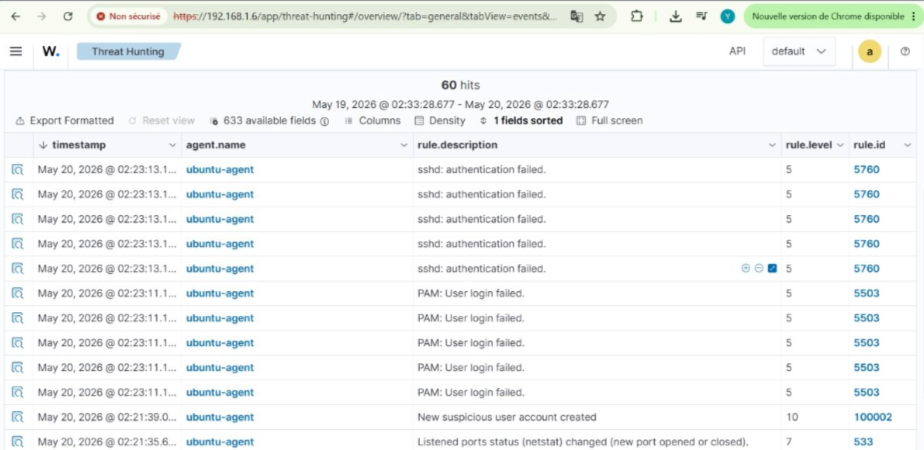
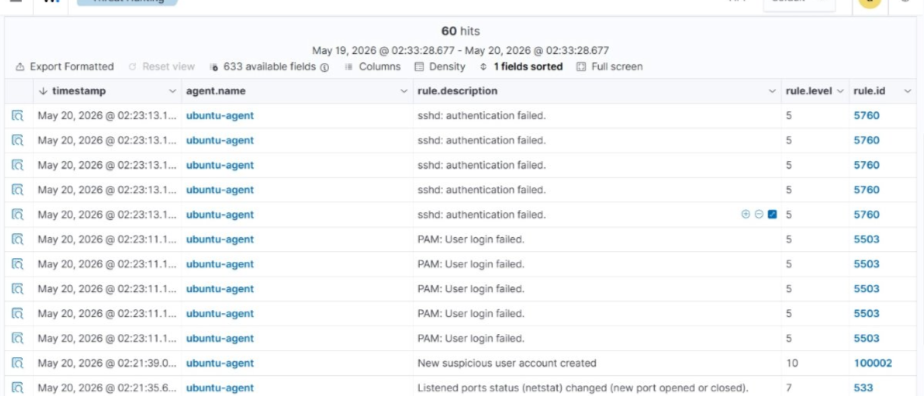
Wazuh : alertes visibles sur la carte, retire SOC / Blue Team du site
1. Affichage des captures Wazuh
   - L'alerte Wazuh (regle 100002) est desormais visible directement
     sur la carte du projet, en reutilisant exactement le composant de
     CAS N1 (.card-media.card-media--screenshot) : meme taille, meme
     position, meme presentation.
   - Nmap et Hydra restent uniquement dans le detail ("Lire le cas en
     detail"), comme avant.
   - Recadre l'image existante (924x450 -> 924x396, ratio 7:3, la
     meme regle CSS deja utilisee par CAS N1) pour que la ligne de la
     regle personnalisee 100002 reste visible dans la vignette, au
     lieu d'etre coupee par le cadrage object-fit:cover. Meme fichier,
     pas de doublon.
   - Retire la figure dupliquee qui montrait la meme image dans le
     detail, pour eviter la redite.

2. Retire "SOC / Blue Team" du portfolio
   Supprime la mention et les formulations de specialisation dans le
   titre, la meta description, le role sous le nom, le paragraphe de
   recherche de stage, la fiche synthese ("Spécialisation" ->
   "Domaine : Cybersécurité"), le poste recherche en Contact, l'onglet
   de filtre et les badges des 2 projets concernes (renommes
   "Détection & SIEM", terme deja utilise ailleurs sur le site pour ce
   meme groupe de competences), ainsi que la fin du texte de
   philosophie et le sous-titre de la section Competences. Repositionne
   le profil comme polyvalent en cybersecurite, en FR et en EN.
   Les noms de projets (ex. "Lab SOC Elastic Security"), les
[…]

diff --git a/index.html b/index.html
@@ -3,9 +3,9 @@
 <head>
 <meta charset="utf-8">
 <meta name="viewport" content="width=device-width, initial-scale=1">
-<title>Ryad Boujenan — Élève ingénieur cybersécurité · SOC / Blue Team</title>
+<title>Ryad Boujenan — Élève ingénieur cybersécurité</title>
 <meta name="theme-color" content="#060b14">
-<meta name="description" content="Ryad Boujenan, élève ingénieur en cybersécurité à l’EMSI Casablanca. SOC / Blue Team : détection, triage d’alertes et investigation sur SIEM. Recherche un stage de fin d’études de 4 à 6 mois à partir de février 2027, en priorité en Suisse.">
+<meta name="description" content="Ryad Boujenan, élève ingénieur en cybersécurité à l’EMSI Casablanca. Détection, sécurité cloud et gestion des risques. Recherche un stage de fin d’études de 4 à 6 mois à partir de février 2027, en priorité en Suisse.">
 <link rel="preconnect" href="https://fonts.googleapis.com">
 <link rel="preconnect" href="https://fonts.gstatic.com" crossorigin>
 <link rel="stylesheet" href="https://fonts.googleapis.com/css2?family=IBM+Plex+Mono:wght@400;500&family=IBM+Plex+Sans+Condensed:wght@500;600&family=IBM+Plex+Sans:wght@400;500;600&display=swap">
@@ -90,12 +90,12 @@
           <p class="status-pill"><span class="dot" aria-hidden="true"></span>En recherche — stage PFE · février 2027</p>
 
           <h1>Ryad Boujenan</h1>
-          <p class="hero-role">Élève ingénieur en cybersécurité — SOC / Blue&nbsp;Team</p>
+          <p class="hero-role">Élève ingénieur en cybersécurité</p>
 
           <p class="lede">
             Je termine un cycle d'ingénieur en <strong>informatique et réseaux, option
             cybersécurité</strong>, à l'EMSI Casablanca. Je recherche un <strong>stage de fin d'études
-            en cybersécurité, orienté SOC / Blue Team, de 4 à 6 mois à partir de février 2027</strong>,
+            en cybersécurité, de 4 à 6 mois à partir de février 2027</strong>,
             en priorité en Suisse, mais également ouvert aux opportunités en France.
           </p>
 
@@ -120,7 +120,7 @@
           <div class="stats">
             <p class="stats-title" id="stats-title">Fiche synthèse</p>
             <dl>
-              <div class="stats-row"><dt>Spécialisation</dt><dd class="txt">SOC / Blue Team</dd></div>
+              <div class="stats-row"><dt>Domaine</dt><dd class="txt">Cybersécurité</dd></div>
               <div class="stats-row"><dt>Disponibilité</dt><dd class="txt live">PFE · février 2027</dd></div>
               <div class="stats-row"><dt>Projets</dt><dd>03</dd></div>
               <div class="stats-row"><dt>Formations &amp; certifications</dt><dd>06</dd></div>
@@ -143,7 +143,7 @@
       <!-- Masquee sans JavaScript : toutes les cartes restent alors visibles. -->
       <div class="filters" id="filters" role="group" aria-label="Filtrer les projets par catégorie" hidden>
         <button class="filter" type="button" data-filter="all" data-label="Tous" aria-pressed="true"><svg class="i" aria-hidden="true"><use href="#i-grid"/></svg>Tous<span class="count"></span></button>
-        <button class="filter" type="button" data-filter="soc" data-label="SOC / Blue Team" aria-pressed="false"><svg class="i" aria-hidden="true"><use href="#i-shield"/></svg>SOC / Blue Team<span class="count"></span></button>
+        <button class="filter" type="button" data-filter="soc" data-label="Détection &amp; SIEM" aria-pressed="false"><svg class="i" aria-hidden="true"><use href="#i-shield"/></svg>Détection &amp; SIEM<span class="count"></span></button>
         <button class="filter" type="button" data-filter="redteam" data-label="Red Team / Pentest" aria-pressed="false"><svg class="i" aria-hidden="true"><use href="#i-target"/></svg>Red Team / Pentest<span class="count"></span></button>
         <button class="filter" type="button" data-filter="cloud" data-label="Cloud" aria-pressed="false"><svg class="i" aria-hidden="true"><use href="#i-cloud"/></svg>Cloud<span class="count"></span></button>
         <button class="filter" type="button" data-filter="ia" data-label="IA" aria-pressed="false"><svg class="i" aria-hidden="true"><use href="#i-chip"/></svg>IA<span class="count"></span></button>
@@ -160,7 +160,7 @@
             <figcaption>Les 4 règles de détection du lab, dans Kibana</figcaption>
           </figure>
           <div class="card-badges">
-            <span class="badge badge-cat"><svg class="i" aria-hidden="true"><use href="#i-shield"/></svg>SOC / Blue Team</span>
+            <span class="badge badge-cat"><svg class="i" aria-hidden="true"><use href="#i-shield"/></svg>Détection &amp; SIEM</span>
             <span class="badge">2026 · Projet personnel</span>
           </div>
           <h3 id="p-elastic"><span class="case-no">CAS Nº1</span>Lab SOC Elastic Security</h3>
@@ -270,8 +270,12 @@
           </figure>
         ===== -->
         <article class="card panel" data-cat="soc" aria-labelledby="p-wazuh">
+          <figure class="card-media card-media--screenshot">
+            <img src="assets/projets/wazuh-detection-alerts-rules.png" alt="Tableau de bord Wazuh Threat Hunting : alertes d'echec d'authentification SSH et PAM, et regle personnalisee 100002 niveau 10 sur la creation d'un compte suspect" width="924" height="396" loading="lazy" decoding="async">
+            <figcaption>Alertes Wazuh : échecs d'authentification SSH/PAM, et règle personnalisée 100002 (niveau 10)</figcaption>
+          </figure>
           <div class="card-badges">
-            <span class="badge badge-cat"><svg class="i" aria-hidden="true"><use href="#i-shield"/></svg>SOC / Blue Team</span>
+            <span class="badge badge-cat"><svg class="i" aria-hidden="true"><use href="#i-shield"/></svg>Détection &amp; SIEM</span>
             <span class="badge">05/2026 · Projet académique</span>
           </div>
           <h3 id="p-wazuh"><span class="case-no">CAS Nº2</span>Lab Wazuh (SIEM) multi-VM</h3>
@@ -342,14 +346,8 @@
                       <p>
                         Les échecs d'authentification SSH et PAM remontent dans le tableau de bord, aux
                         côtés de la règle personnalisée <code>100002</code> qui qualifie la création d'un
-                        compte utilisateur suspect.
+                        compte utilisateur suspect — visible directement sur la carte du projet.
                       </p>
-                      <figure class="detail-fig">
-                        <a href="assets/projets/wazuh-detection-alerts-rules.png" target="_blank" rel="noopener" title="Ouvrir l'image en grand">
-                          <img src="assets/projets/wazuh-detection-alerts-rules.png" alt="Tableau de bord Wazuh Threat Hunting : alertes d'echec d'authentification SSH et PAM, et regle personnalisee 100002 niveau 10 sur la creation d'un compte suspect" width="924" height="450" loading="lazy" decoding="async">
-                        </a>
-                        <figcaption>Alertes Wazuh : échecs d'authentification SSH/PAM, et règle personnalisée 100002 (niveau 10)</figcaption>
-                      </figure>
                     </li>
                   </ul>
                 </div>
@@ -453,8 +451,8 @@
         <p class="eyebrow"><svg class="i" aria-hidden="true"><use href="#i-layers"/></svg>02 · Compétences</p>
         <h2>Outils et domaines</h2>
         <p class="section-sub">
-          Je me spécialise en sécurité défensive : détection, triage d'alertes et investigation sur
-          SIEM.
+          Des fondamentaux réseau jusqu'à la détection, en passant par l'offensif et le cloud : les
+          domaines sur lesquels je me forme.
         </p>
       </div>
 
@@ -540,8 +538,7 @@
         </p>
         <p>
           C'est cette approche transversale que je souhaite approfondir : comprendre les systèmes,
-          anticiper les risques et contribuer à leur sécurisation, avec un intérêt particulier pour le
-          SOC et la cybersécurité défensive.
+          anticiper les risques et contribuer à leur sécurisation.
         </p>
       </div>
     </div>
@@ -1001,7 +998,7 @@
           <div class="availability">
             <h4>Recherche en cours</h4>
             <dl>
-              <dt>Poste</dt><dd>Stage de fin d'études (PFE) — analyste SOC</dd>
+              <dt>Poste</dt><dd>Stage de fin d'études (PFE) — cybersécurité</dd>
               <dt>Durée</dt><dd>4 à 6 mois</dd>
               <dt>Début</dt><dd>À partir de février 2027</dd>
               <dt>Lieu</dt><dd>Suisse en priorité, France également</dd>

diff --git a/en/index.html b/en/index.html
@@ -3,9 +3,9 @@
 <head>
 <meta charset="utf-8">
 <meta name="viewport" content="width=device-width, initial-scale=1">
-<title>Ryad Boujenan — Cybersecurity engineering student · SOC / Blue Team</title>
+<title>Ryad Boujenan — Cybersecurity engineering student</title>
 <meta name="theme-color" content="#060b14">
-<meta name="description" content="Ryad Boujenan, final-year cybersecurity engineering student at EMSI Casablanca. SOC / Blue Team: detection, alert triage and SIEM investigation. Looking for a 4-to-6-month final-year internship from February 2027, primarily in Switzerland.">
+<meta name="description" content="Ryad Boujenan, final-year cybersecurity engineering student at EMSI Casablanca. Detection, cloud security and risk management. Looking for a 4-to-6-month final-year internship from February 2027, primarily in Switzerland.">
 <link rel="preconnect" href="https://fonts.googleapis.com">
 <link rel="preconnect" href="https://fonts.gstatic.com" crossorigin>
 <link rel="stylesheet" href="https://fonts.googleapis.com/css2?family=IBM+Plex+Mono:wght@400;500&family=IBM+Plex+Sans+Condensed:wght@500;600&family=IBM+Plex+Sans:wght@400;500;600&display=swap">
@@ -90,12 +90,12 @@
           <p class="status-pill"><span class="dot" aria-hidden="true"></span>Available — final-year internship · February 2027</p>
 
           <h1>Ryad Boujenan</h1>
-          <p class="hero-role">Cybersecurity engineering student — SOC / Blue&nbsp;Team</p>
+          <p class="hero-role">Cybersecurity engineering student</p>
 
           <p class="lede">
             I am completing an engineering degree in <strong>computer engineering and networks,
             cybersecurity major</strong>, at EMSI Casablanca. I am looking for a <strong>final-year
-            cybersecurity internship focused on SOC / Blue Team, 4 to 6 months from February 2027</strong>,
+            cybersecurity internship, 4 to 6 months from February 2027</strong>,
             primarily in Switzerland, and equally open to opportunities in France.
           </p>
 
@@ -120,7 +120,7 @@
           <div class="stats">
             <p class="stats-title" id="stats-title">At a glance</p>
             <dl>
-              <div class="stats-row"><dt>Specialisation</dt><dd class="txt">SOC / Blue Team</dd></div>
+              <div class="stats-row"><dt>Field</dt><dd class="txt">Cybersecurity</dd></div>
               <div class="stats-row"><dt>Availability</dt><dd class="txt live">Internship · Feb 2027</dd></div>
               <div class="stats-row"><dt>Projects</dt><dd>03</dd></div>
               <div class="stats-row"><dt>Training &amp; certifications</dt><dd>06</dd></div>
@@ -143,7 +143,7 @@
       <!-- Masquee sans JavaScript : toutes les cartes restent alors visibles. -->
       <div class="filters" id="filters" role="group" aria-label="Filter projects by category" hidden>
         <button class="filter" type="button" data-filter="all" data-label="All" aria-pressed="true"><svg class="i" aria-hidden="true"><use href="#i-grid"/></svg>All<span class="count"></span></button>
-        <button class="filter" type="button" data-filter="soc" data-label="SOC / Blue Team" aria-pressed="false"><svg class="i" aria-hidden="true"><use href="#i-shield"/></svg>SOC / Blue Team<span class="count"></span></button>
+        <button class="filter" type="button" data-filter="soc" data-label="Detection &amp; SIEM" aria-pressed="false"><svg class="i" aria-hidden="true"><use href="#i-shield"/></svg>Detection &amp; SIEM<span class="count"></span></button>
         <button class="filter" type="button" data-filter="redteam" data-label="Red Team / Pentest" aria-pressed="false"><svg class="i" aria-hidden="true"><use href="#i-target"/></svg>Red Team / Pentest<span class="count"></span></button>
         <button class="filter" type="button" data-filter="cloud" data-label="Cloud" aria-pressed="false"><svg class="i" aria-hidden="true"><use href="#i-cloud"/></svg>Cloud<span class="count"></span></button>
         <button class="filter" type="button" data-filter="ia" data-label="AI" aria-pressed="false"><svg class="i" aria-hidden="true"><use href="#i-chip"/></svg>AI<span class="count"></span></button>
@@ -160,7 +160,7 @@
             <figcaption>The lab's 4 detection rules, in Kibana</figcaption>
           </figure>
           <div class="card-badges">
-            <span class="badge badge-cat"><svg class="i" aria-hidden="true"><use href="#i-shield"/></svg>SOC / Blue Team</span>
+            <span class="badge badge-cat"><svg class="i" aria-hidden="true"><use href="#i-shield"/></svg>Detection &amp; SIEM</span>
             <span class="badge">2026 · Personal project</span>
           </div>
           <h3 id="p-elastic"><span class="case-no">CAS Nº1</span>Lab SOC Elastic Security</h3>
@@ -269,8 +269,12 @@
           </figure>
         ===== -->
         <article class="card panel" data-cat="soc" aria-labelledby="p-wazuh">
+          <figure class="card-media card-media--screenshot">
+            <img src="../assets/projets/wazuh-detection-alerts-rules.png" alt="Wazuh Threat Hunting dashboard: SSH and PAM authentication-failure alerts, and custom rule 100002 level 10 for a suspicious account creation" width="924" height="396" loading="lazy" decoding="async">
+            <figcaption>Wazuh alerts: SSH/PAM authentication failures, and custom rule 100002 (level 10)</figcaption>
+          </figure>
           <div class="card-badges">
-            <span class="badge badge-cat"><svg class="i" aria-hidden="true"><use href="#i-shield"/></svg>SOC / Blue Team</span>
+            <span class="badge badge-cat"><svg class="i" aria-hidden="true"><use href="#i-shield"/></svg>Detection &amp; SIEM</span>
             <span class="badge">05/2026 · Academic project</span>
           </div>
           <h3 id="p-wazuh"><span class="case-no">CAS Nº2</span>Lab Wazuh (SIEM) multi-VM</h3>
@@ -341,14 +345,8 @@
                       <p>
                         The SSH and PAM authentication failures surface on the dashboard, alongside the
                         custom rule <code>100002</code> that flags the creation of a suspicious user
-                        account.
+                        account — visible directly on the project card.
                       </p>
-                      <figure class="detail-fig">
-                        <a href="../assets/projets/wazuh-detection-alerts-rules.png" target="_blank" rel="noopener" title="Open image full size">
-                          <img src="../assets/projets/wazuh-detection-alerts-rules.png" alt="Wazuh Threat Hunting dashboard: SSH and PAM authentication-failure alerts, and custom rule 100002 level 10 for a suspicious account creation" width="924" height="450" loading="lazy" decoding="async">
-                        </a>
-                        <figcaption>Wazuh alerts: SSH/PAM authentication failures, and custom rule 100002 (level 10)</figcaption>
-                      </figure>
                     </li>
                   </ul>
                 </div>
@@ -452,7 +450,8 @@
         <p class="eyebrow"><svg class="i" aria-hidden="true"><use href="#i-layers"/></svg>02 · Skills</p>
         <h2>Tools and areas</h2>
         <p class="section-sub">
-          I specialise in defensive security: detection, alert triage and SIEM investigation.
+          From network fundamentals to detection, by way of offensive security and cloud: the areas
+          I'm building skills in.
         </p>
       </div>
 
@@ -537,8 +536,7 @@
         </p>
         <p>
           That's the cross-cutting approach I want to keep building on: understanding systems,
-          anticipating risks, and helping secure them, with a particular interest in the SOC and
-          defensive security.
+          anticipating risks, and helping secure them.
         </p>
       </div>
     </div>
@@ -998,7 +996,7 @@
           <div class="availability">
             <h4>What I am looking for</h4>
             <dl>
-              <dt>Role</dt><dd>Final-year internship — SOC analyst</dd>
+              <dt>Role</dt><dd>Final-year internship — cybersecurity</dd>
               <dt>Length</dt><dd>4 to 6 months</dd>
               <dt>Start</dt><dd>From February 2027</dd>
               <dt>Location</dt><dd>Switzerland preferred, France also</dd>
